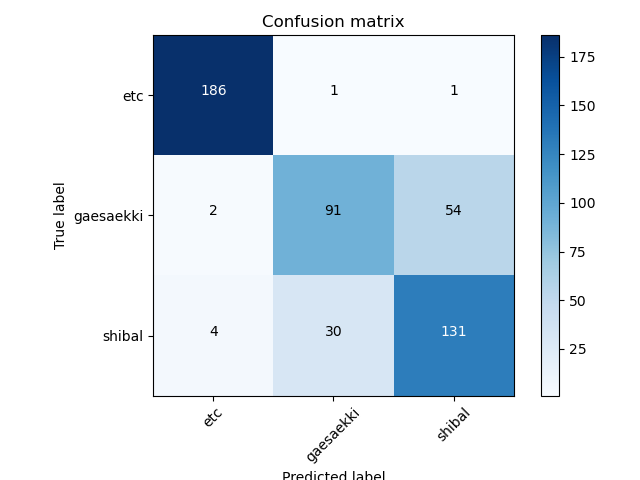
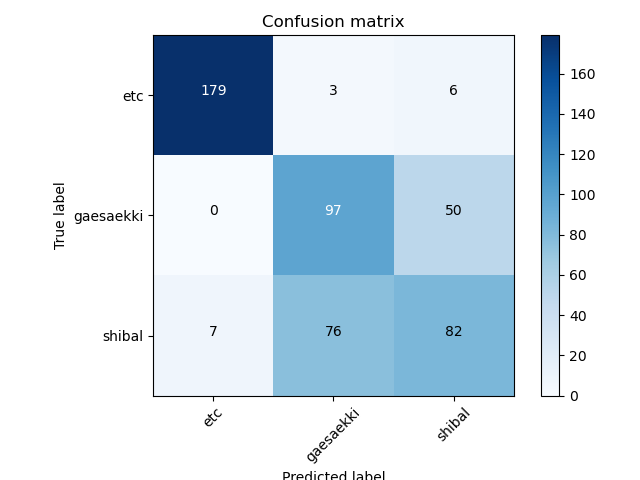
edit
fix training_spectrogram, save score, figure image

diff --git a/training_Spectrogram.py b/training_Spectrogram.py
@@ -3,7 +3,7 @@ import librosa
 import numpy as np
 import pandas as pd
 from sklearn.model_selection import train_test_split
-from sklearn.preprocessing import StandardScaler, LabelEncoder
+from sklearn.preprocessing import StandardScaler
 from keras.models import Sequential
 from keras.layers import Conv2D, MaxPooling2D, Flatten, Dense, Dropout
 from keras.optimizers import Adam
@@ -12,6 +12,7 @@ from keras.callbacks import EarlyStopping, ModelCheckpoint, LearningRateSchedule
 from sklearn.metrics import confusion_matrix, classification_report
 from plot_cm import plot_confusion_matrix
 
+# 학습 불균형이 너무 심해 모델 구조 및 파라미터 일괄수정
 # loading saved pickle
 df = pd.read_pickle("final_audio_data_csv/audio_data_spectrogram.pkl")
 
@@ -26,7 +27,9 @@ X_train, X_test, y_train, y_test = train_test_split(X, y, test_size=0.2, random_
 
 # def model
 model = Sequential([
-    Conv2D(32, kernel_size=(3, 3), activation='relu', input_shape=(X_train.shape[1], X_train.shape[2], 1)),
+    Conv2D(64, kernel_size=(3, 3), activation='relu', input_shape=(X_train.shape[1], X_train.shape[2], 1)),
+    MaxPooling2D(pool_size=(2, 2)),
+    Conv2D(32, kernel_size=(3, 3), activation='relu'),
     MaxPooling2D(pool_size=(2, 2)),
     Flatten(),
     Dense(256, activation='relu'),
@@ -39,7 +42,7 @@ print(model.summary())
 
 # callbacks
 early_stopping = EarlyStopping(monitor='val_loss', patience=30, restore_best_weights=True)
-model_checkpoint = ModelCheckpoint('best_model_spectrogram.h5', monitor='val_accuracy', mode='max', verbose=1, save_best_only=True)
+model_checkpoint = ModelCheckpoint('saved_model/best_model_spectrogram.h5', monitor='val_accuracy', mode='max', verbose=1, save_best_only=True)
 
 def lr_scheduler(epoch, lr):
     if epoch % 10 == 0:
@@ -59,8 +62,63 @@ score = model.evaluate(X_test, y_test)
 print("Test Loss and Accuracy: ", score)
 
 # Evaluating our model
-print("Model Classification Report: \n")
+print("Model Classification Report: ")
 y_pred = np.argmax(model.predict(X_test), axis=1)
 cm = confusion_matrix(np.argmax(y_test, axis=1), y_pred)
 print(classification_report(np.argmax(y_test, axis=1), y_pred))
 plot_confusion_matrix(cm, classes=["etc", "gaesaekki", "shibal"])
+
+
+# # 기존 코드. 
+# # loading saved pickle
+# df = pd.read_pickle("final_audio_data_csv/audio_data_spectrogram.pkl")
+
+# # seperate feature, class_label, convert shape
+# X = np.array(df["feature"].tolist())
+# X = np.concatenate(X, axis=0).reshape(len(X), X[0].shape[0], X[0].shape[1], 1)  # Reshape for CNN
+# y = np.array(df["class_label"].tolist())
+# y = to_categorical(y)
+
+# # train Test Split
+# X_train, X_test, y_train, y_test = train_test_split(X, y, test_size=0.2, random_state=42)
+
+# # def model
+# model = Sequential([
+#     Conv2D(32, kernel_size=(3, 3), activation='relu', input_shape=(X_train.shape[1], X_train.shape[2], 1)),
+#     MaxPooling2D(pool_size=(2, 2)),
+#     Flatten(),
+#     Dense(256, activation='relu'),
+#     Dropout(0.5),
+#     Dense(3, activation='softmax')
+# ])
+
+# # Model summary
+# print(model.summary())
+
+# # callbacks
+# early_stopping = EarlyStopping(monitor='val_loss', patience=30, restore_best_weights=True)
+# model_checkpoint = ModelCheckpoint('best_model_spectrogram.h5', monitor='val_accuracy', mode='max', verbose=1, save_best_only=True)
+
+# def lr_scheduler(epoch, lr):
+#     if epoch % 10 == 0:
+#         return lr * 0.9
+#     return lr
+
+# learning_rate_scheduler = LearningRateScheduler(lr_scheduler)
+
+# # Model compilation
+# model.compile(loss='categorical_crossentropy', optimizer=Adam(lr=0.001), metrics=['accuracy'])
+
+# # Model training
+# history = model.fit(X_train, y_train, epochs=300, callbacks=[early_stopping, model_checkpoint, learning_rate_scheduler], validation_split=0.2, batch_size=32)
+
+# # Model evaluation on test data
+# score = model.evaluate(X_test, y_test)
+# print("Test Loss and Accuracy: ", score)
+
+# # Evaluating our model
+# print("Model Classification Report: \n")
+# y_pred = np.argmax(model.predict(X_test), axis=1)
+# cm = confusion_matrix(np.argmax(y_test, axis=1), y_pred)
+# print(classification_report(np.argmax(y_test, axis=1), y_pred))
+# plot_confusion_matrix(cm, classes=["etc", "gaesaekki", "shibal"])
